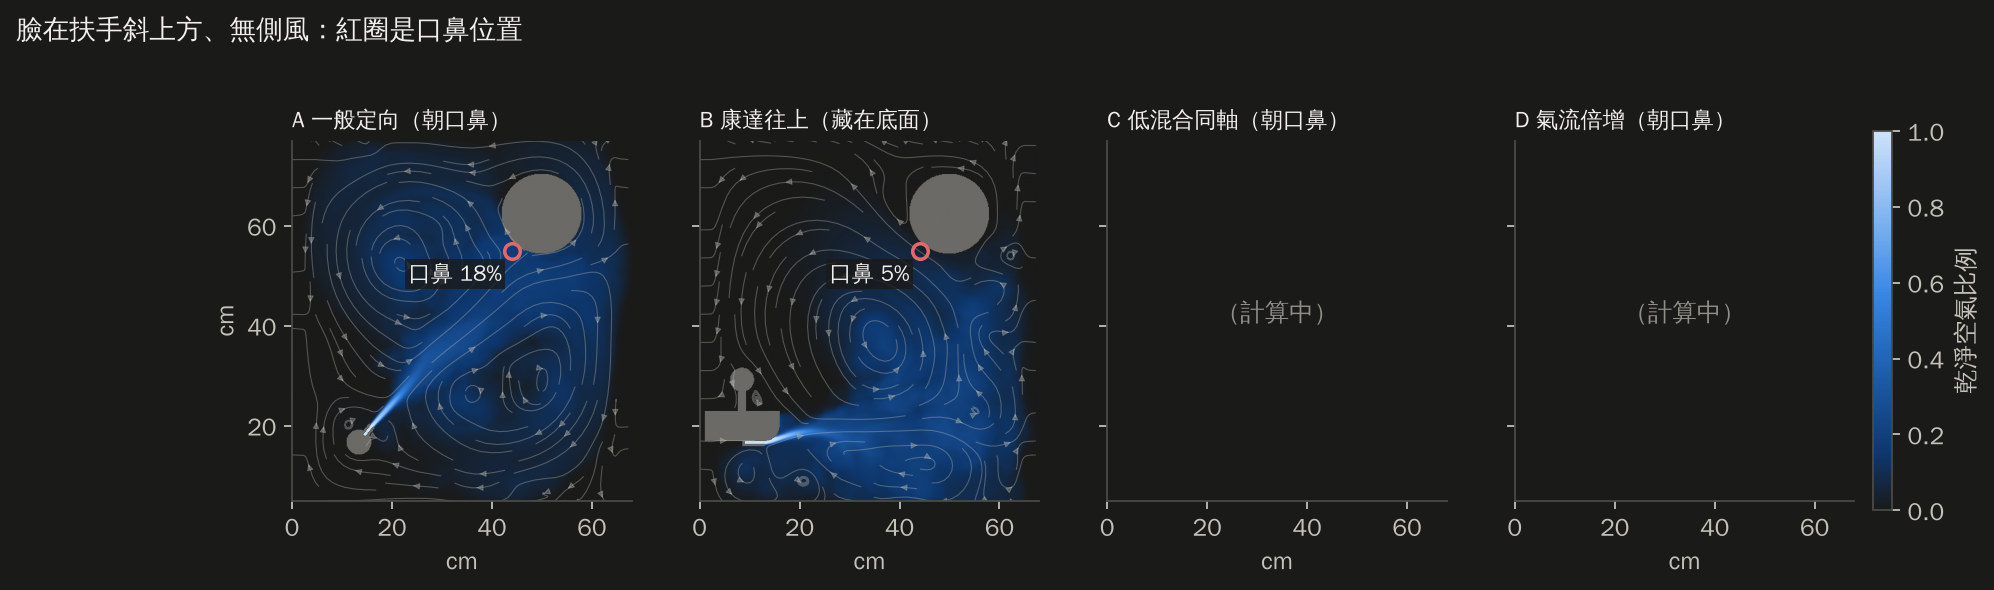
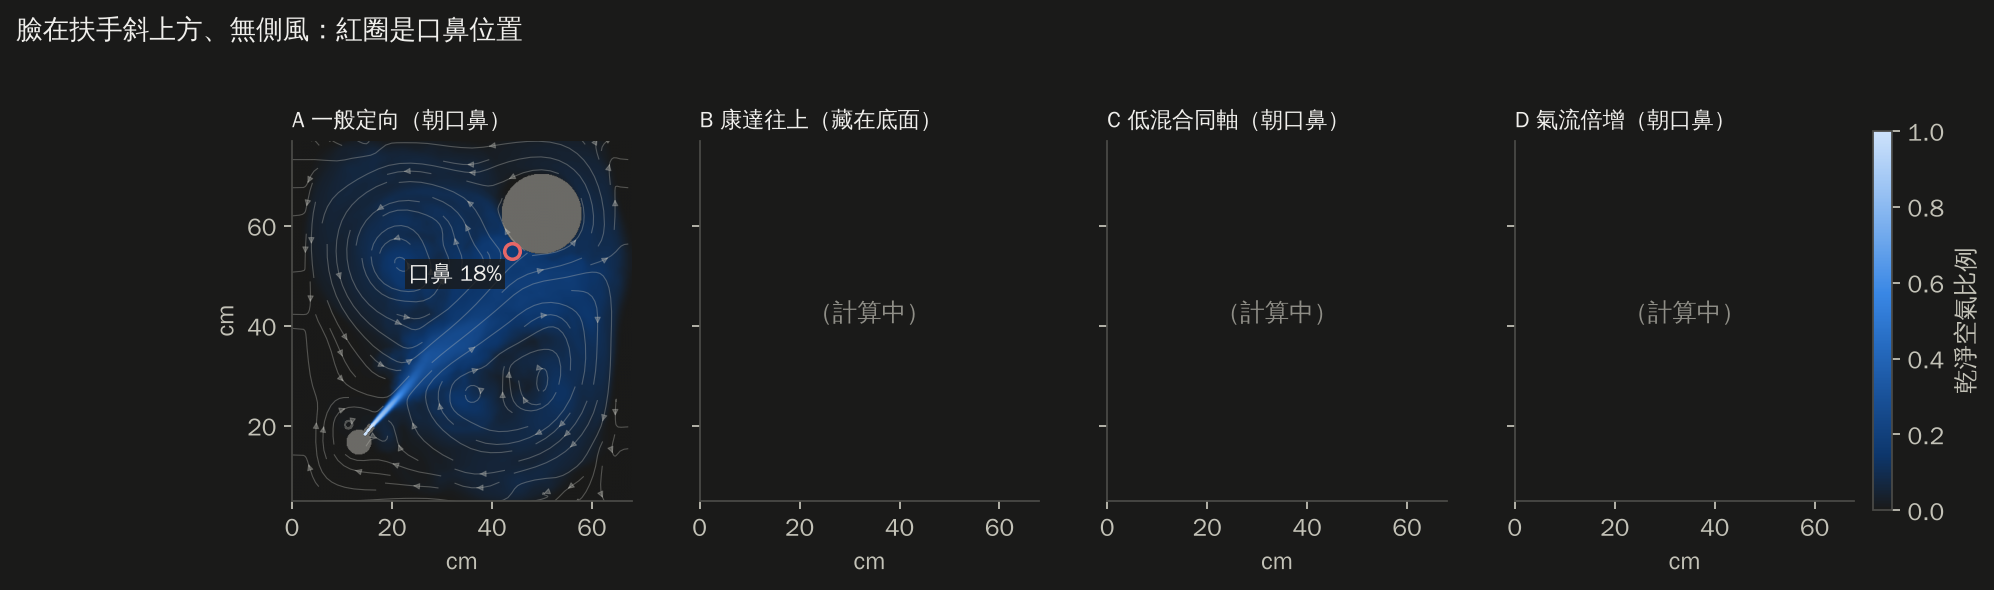
Face-above: rerun no-crossflow B/C (and air wall) for 24 s since 10 s had not settled
Claude-Session: https://claude.ai/code/session_01CLMVR9XzZXdsSKCMSLUbBG

Changed region(s): [[0.342, 0.2746, 0.5286, 0.8542]]

diff --git a/stairwell-airflow-sim/report/index.html b/stairwell-airflow-sim/report/index.html
@@ -173,7 +173,7 @@ footer { margin-top: 48px; padding-top: 20px; border-top: 1px solid var(--line);
   <h1>扶手送風模擬報告</h1>
   <p class="question">一根貫穿整棟樓的扶手，平時能不能流通、淨化空氣？火災時能幫逃生者做到什麼？用電腦模擬一項一項檢查。</p>
   <div class="meta"><span>日期 <b>2026-10-19</b></span><span>專案 <b>長庚大學工業設計學系 林煜宸</b></span><span>模擬與撰寫 <b>Claude（AI）</b></span></div>
-  <div class="progress" role="status"><p>臉在斜上方的出風口重算：已完成 8/18 組，整體約 59%，預計台灣時間 <b>23:17</b> 前後完成</p><div class="bar" aria-hidden="true"><span style="width:58.8%"></span></div><div class="chips"><span class="chip chip-done"><b>B 康達往上</b>・無側風　完成</span><span class="chip chip-done"><b>B 康達往上</b>・側風 0.15　完成</span><span class="chip chip-done"><b>B 康達往上</b>・側風 0.30　完成</span><span class="chip chip-done"><b>A 一般</b>・側風 0.30　完成</span><span class="chip chip-done"><b>C 低混合</b>・側風 0.30　完成</span><span class="chip chip-done"><b>D 倍增</b>・側風 0.30　完成</span><span class="chip chip-done"><b>A 一般</b>・無側風　完成</span><span class="chip chip-done"><b>A 一般</b>・側風 0.15　完成</span><span class="chip chip-run"><b>D 倍增</b>・無側風　35%</span><span class="chip chip-run"><b>D 倍增</b>・側風 0.15　7%</span><span class="chip chip-run"><b>C 低混合</b>・側風 0.15　0%</span><span class="chip chip-run"><b>C 低混合</b>・無側風　0%</span><span class="chip chip-wait"><b>W 空氣牆 40</b>・側風 0.15　排隊中</span><span class="chip chip-wait"><b>W 空氣牆 20</b>・側風 0.15　排隊中</span><span class="chip chip-wait"><b>W 空氣牆 40</b>・側風 0.30　排隊中</span><span class="chip chip-wait"><b>W 空氣牆 20</b>・側風 0.30　排隊中</span><span class="chip chip-wait"><b>W 空氣牆 40</b>・無側風　排隊中</span><span class="chip chip-wait"><b>W 空氣牆 20</b>・無側風　排隊中</span></div><p class="muted small">進度在每次更新報告時重新計算（最後更新：台灣時間 10/19 22:39）。</p></div>
+  <div class="progress" role="status"><p>臉在斜上方的出風口重算：已完成 7/18 組，整體約 46%，預計台灣時間 <b>23:55</b> 前後完成</p><div class="bar" aria-hidden="true"><span style="width:46.2%"></span></div><div class="chips"><span class="chip chip-wait"><b>B 康達往上</b>・無側風　排隊中</span><span class="chip chip-done"><b>B 康達往上</b>・側風 0.15　完成</span><span class="chip chip-done"><b>B 康達往上</b>・側風 0.30　完成</span><span class="chip chip-done"><b>A 一般</b>・側風 0.30　完成</span><span class="chip chip-done"><b>C 低混合</b>・側風 0.30　完成</span><span class="chip chip-done"><b>D 倍增</b>・側風 0.30　完成</span><span class="chip chip-done"><b>A 一般</b>・無側風　完成</span><span class="chip chip-done"><b>A 一般</b>・側風 0.15　完成</span><span class="chip chip-run"><b>D 倍增</b>・無側風　83%</span><span class="chip chip-run"><b>D 倍增</b>・側風 0.15　55%</span><span class="chip chip-run"><b>C 低混合</b>・側風 0.15　48%</span><span class="chip chip-wait"><b>C 低混合</b>・無側風　排隊中</span><span class="chip chip-run"><b>W 空氣牆 40</b>・側風 0.15　6%</span><span class="chip chip-wait"><b>W 空氣牆 20</b>・側風 0.15　排隊中</span><span class="chip chip-wait"><b>W 空氣牆 40</b>・側風 0.30　排隊中</span><span class="chip chip-wait"><b>W 空氣牆 20</b>・側風 0.30　排隊中</span><span class="chip chip-wait"><b>W 空氣牆 40</b>・無側風　排隊中</span><span class="chip chip-wait"><b>W 空氣牆 20</b>・無側風　排隊中</span></div><p class="muted small">進度在每次更新報告時重新計算（最後更新：台灣時間 10/19 22:46）。</p></div>
 </header>
 <nav class="toc" aria-label="章節">
   <a href="#summary">一頁看懂</a><a href="#method">怎麼測的</a><a href="#daily">平時：新風帶</a><a href="#fire">火災：守護路線</a>
@@ -445,15 +445,16 @@ footer { margin-top: 48px; padding-top: 20px; border-top: 1px solid var(--line);
 
 <section id="nozzle">
   <h2><span class="no">04</span>四種出風口比一比（臉在扶手斜上方）</h2>
-  <p class="oneliner">臉在扶手斜上方時（已完成 8/18 組），目前口鼻乾淨空氣最高的是 A 一般定向（無側風）：18%。</p>
+  <p class="oneliner">臉在扶手斜上方時（已完成 7/18 組），目前口鼻乾淨空氣最高的是 A 一般定向（無側風）：18%。</p>
   <figure class="fig render"><img class="img-any" src="assets/render_nozzles.webp" alt="四種扶手側面出風口形式比較" loading="lazy"><figcaption>四種出風口的造型構想（設計渲染圖）。圖中文字是設計構想，實際結果以下方模擬為準。</figcaption></figure>
   <figure class="fig"><img class="img-light" src="assets/s2f_saf_bars.png" alt="臉在斜上方時四種出風口的乾淨空氣比例" loading="lazy"><img class="img-dark" src="assets/s2f_saf_bars_dark.png" alt="臉在斜上方時四種出風口的乾淨空氣比例" loading="lazy"><figcaption>每條橫條代表 100% 的吸入空氣，彩色部分是來自出風口的乾淨空氣。黑色短線是最差 10% 的時刻。</figcaption></figure>
   <div class="points prose">
 <p><b>為什麼重算：</b>人扶著內側扶手下樓時，臉在扶手的<b>斜上方</b>，不是正前方。這組把口鼻放在出風口往樓梯側 28 cm、往上 35 cm（距離約 45 cm、仰角約 51°）；A、C、D 出風口改成朝向口鼻，B 改用藏在底面、往上轉的康達出風口。每公尺送風量都是 5 L/s，網格 1.5 mm。<span class="tag tag-sim">模擬結果</span></p>
-<div class="table-wrap"><table><thead><tr><th scope="col">出風口</th><th scope="col">無側風</th><th scope="col">側風 0.15</th><th scope="col">側風 0.30</th></tr></thead><tbody><tr><th scope="row">A 一般定向</th><td class="num">18%</td><td class="num">0%</td><td class="num">0%</td></tr><tr><th scope="row">B 康達往上</th><td class="num">5%</td><td class="num">0%</td><td class="num">0%</td></tr><tr><th scope="row">C 低混合同軸</th><td class="num">計算中</td><td class="num">計算中</td><td class="num">0%</td></tr><tr><th scope="row">D 氣流倍增</th><td class="num">計算中</td><td class="num">計算中</td><td class="num">0%</td></tr><tr><th scope="row">W 空氣牆 20 L/s/m</th><td class="num">計算中</td><td class="num">計算中</td><td class="num">計算中</td></tr><tr><th scope="row">W 空氣牆 40 L/s/m</th><td class="num">計算中</td><td class="num">計算中</td><td class="num">計算中</td></tr></tbody></table></div>
+<div class="table-wrap"><table><thead><tr><th scope="col">出風口</th><th scope="col">無側風</th><th scope="col">側風 0.15</th><th scope="col">側風 0.30</th></tr></thead><tbody><tr><th scope="row">A 一般定向</th><td class="num">18%</td><td class="num">0%</td><td class="num">0%</td></tr><tr><th scope="row">B 康達往上</th><td class="num">計算中</td><td class="num">0%</td><td class="num">0%</td></tr><tr><th scope="row">C 低混合同軸</th><td class="num">計算中</td><td class="num">計算中</td><td class="num">0%</td></tr><tr><th scope="row">D 氣流倍增</th><td class="num">計算中</td><td class="num">計算中</td><td class="num">0%</td></tr><tr><th scope="row">W 空氣牆 20 L/s/m</th><td class="num">計算中</td><td class="num">計算中</td><td class="num">計算中</td></tr><tr><th scope="row">W 空氣牆 40 L/s/m</th><td class="num">計算中</td><td class="num">計算中</td><td class="num">計算中</td></tr></tbody></table></div>
 <p><b>目前看到的現象（6 組有側風的結果）：</b>有側風時，出風口吹出的乾淨空氣一離開扶手，就被由下往上的氣流帶著<b>貼著扶手正上方往上走</b>，到不了往樓梯側 28 cm 外的臉，口鼻都是 0%。B 康達往上確實有沿圓角轉向上（下面的圖看得到深藍色貼著導風腔轉彎），但轉上去之後一樣直直往上，沒有往臉的方向偏。<span class="tag tag-sim">模擬結果</span></p>
 <p><b>加算空氣牆：</b>先算完的幾組顯示，每公尺 5 L/s 的出風口在有側風時送不到斜上方的臉。所以把第 05 章表現最好的空氣牆（寬 80 mm、每公尺 20 或 40 L/s、水平往樓梯側吹）也放進同一個「臉在斜上方＋有頭」的測試，共 6 組，表格最後兩列。<span class="tag tag-sim">模擬結果</span></p>
-<p class="muted">已完成 8/18 組，其餘計算中；每完成一批就會更新。</p></div>
+<p><b>無側風要算久一點：</b>沒有側風時氣流很慢，乾淨空氣要好幾秒才飄到臉旁。先算的 10 秒版本裡，B、C 的口鼻數值還在一路往上爬（B 從 0% 爬到 12%、C 從 15% 爬到 46%），代表還沒穩定，所以無側風的 B、C 和空氣牆延長到 24 秒重算，取後 16 秒平均。A 的 10 秒版本前後半段差不多（19%／18%），已經穩定。<span class="tag tag-sim">模擬結果</span></p>
+<p class="muted">已完成 7/18 組，其餘計算中；每完成一批就會更新。</p></div>
   <figure class="fig"><img class="img-light" src="assets/s2f_vc00_fields.png" alt="臉在斜上方、無側風" loading="lazy"><img class="img-dark" src="assets/s2f_vc00_fields_dark.png" alt="臉在斜上方、無側風" loading="lazy"><figcaption>無側風：紅圈是口鼻位置，顏色越深代表出風口的空氣越多。</figcaption></figure>
   <figure class="fig"><img class="img-light" src="assets/s2f_vc15_fields.png" alt="臉在斜上方、側風 0.15 m/s" loading="lazy"><img class="img-dark" src="assets/s2f_vc15_fields_dark.png" alt="臉在斜上方、側風 0.15 m/s" loading="lazy"><figcaption>側風 0.15 m/s（由下往上）。</figcaption></figure>
   <figure class="fig"><div class="pending-box">動畫計算中</div><figcaption>動畫（臉在斜上方、側風 0.15 m/s）。每格 0.08 秒。</figcaption></figure>

diff --git a/stairwell-airflow-sim/cases/build_face.py b/stairwell-airflow-sim/cases/build_face.py
@@ -30,6 +30,7 @@ Q = 5e-3
 RAIL_R = 0.025
 NU, D_MOL, U_LAT_MAX, TAU_MIN = 1.5e-5, 2.0e-5, 0.1, 0.504
 T_TOTAL, T_WARM = 10.0, 3.0
+T_TOTAL0, T_WARM0 = 24.0, 8.0         # 無側風：氣流慢、要更久才穩定，平均後 16 秒
 NX, NY = int(round(LX / DX)), int(round(LY / DX))
 FLUID, SOLID, INLET = 0, 1, 2
 
@@ -160,7 +161,8 @@ def build(name, nz, vc, q=Q):
     u_ref = max(float(np.abs(ux).max()), float(np.abs(uy).max()), 2.5 * vc)
     vel_scale = u_ref / U_LAT_MAX
     dt = DX / vel_scale
-    cfg = dict(nx=NX, ny=NY, steps=int(round(T_TOTAL / dt)), warmup=int(round(T_WARM / dt)),
+    t_total, t_warm = (T_TOTAL0, T_WARM0) if vc == 0 else (T_TOTAL, T_WARM)
+    cfg = dict(nx=NX, ny=NY, steps=int(round(t_total / dt)), warmup=int(round(t_warm / dt)),
                tau0=max(0.5 + 3 * NU * dt / DX ** 2, TAU_MIN), cs=0.17, dlat=D_MOL * dt / DX ** 2, sct=0.7,
                vc=vc / vel_scale, sponge=25, probe_every=max(1, int(round(0.01 / dt))),
                frame_every=max(1, int(round(0.08 / dt))) if vc == 0.15 and nz != "W" else 0)
@@ -175,8 +177,8 @@ def build(name, nz, vc, q=Q):
         f.write((uy / vel_scale).astype(np.float32).tobytes())
         f.write(probe.astype(np.uint8).tobytes())
     meta = dict(name=name, nozzle=nz, vc_ms=vc, dx=DX, dt=dt, vel_scale=vel_scale, x0=X0, y0=Y0,
-                mouth=MOUTH, head_c=hc.tolist(), head_r=HEAD_R, aim_deg=AIM, q=q, t_total=T_TOTAL,
-                t_warm=T_WARM, **info, **cfg)
+                mouth=MOUTH, head_c=hc.tolist(), head_r=HEAD_R, aim_deg=AIM, q=q, t_total=t_total,
+                t_warm=t_warm, **info, **cfg)
     json.dump(meta, open(os.path.join(dd, "meta.json"), "w"), indent=1)
     np.save(os.path.join(dd, "type.npy"), t)
     return meta

diff --git a/stairwell-airflow-sim/report/findings.py b/stairwell-airflow-sim/report/findings.py
@@ -279,6 +279,7 @@ def build_findings(ctx):
 {face_table}
 {face_interim}
 <p><b>加算空氣牆：</b>先算完的幾組顯示，每公尺 5 L/s 的出風口在有側風時送不到斜上方的臉。所以把第 05 章表現最好的空氣牆（寬 80 mm、每公尺 20 或 40 L/s、水平往樓梯側吹）也放進同一個「臉在斜上方＋有頭」的測試，共 6 組，表格最後兩列。{tag("sim")}</p>
+<p><b>無側風要算久一點：</b>沒有側風時氣流很慢，乾淨空氣要好幾秒才飄到臉旁。先算的 10 秒版本裡，B、C 的口鼻數值還在一路往上爬（B 從 0% 爬到 12%、C 從 15% 爬到 46%），代表還沒穩定，所以無側風的 B、C 和空氣牆延長到 24 秒重算，取後 16 秒平均。A 的 10 秒版本前後半段差不多（19%／18%），已經穩定。{tag("sim")}</p>
 <p class="muted">已完成 {n_done}/18 組，其餘計算中；每完成一批就會更新。</p>"""
 
     # ---------- S6：守住扶手旁 50 cm ----------
